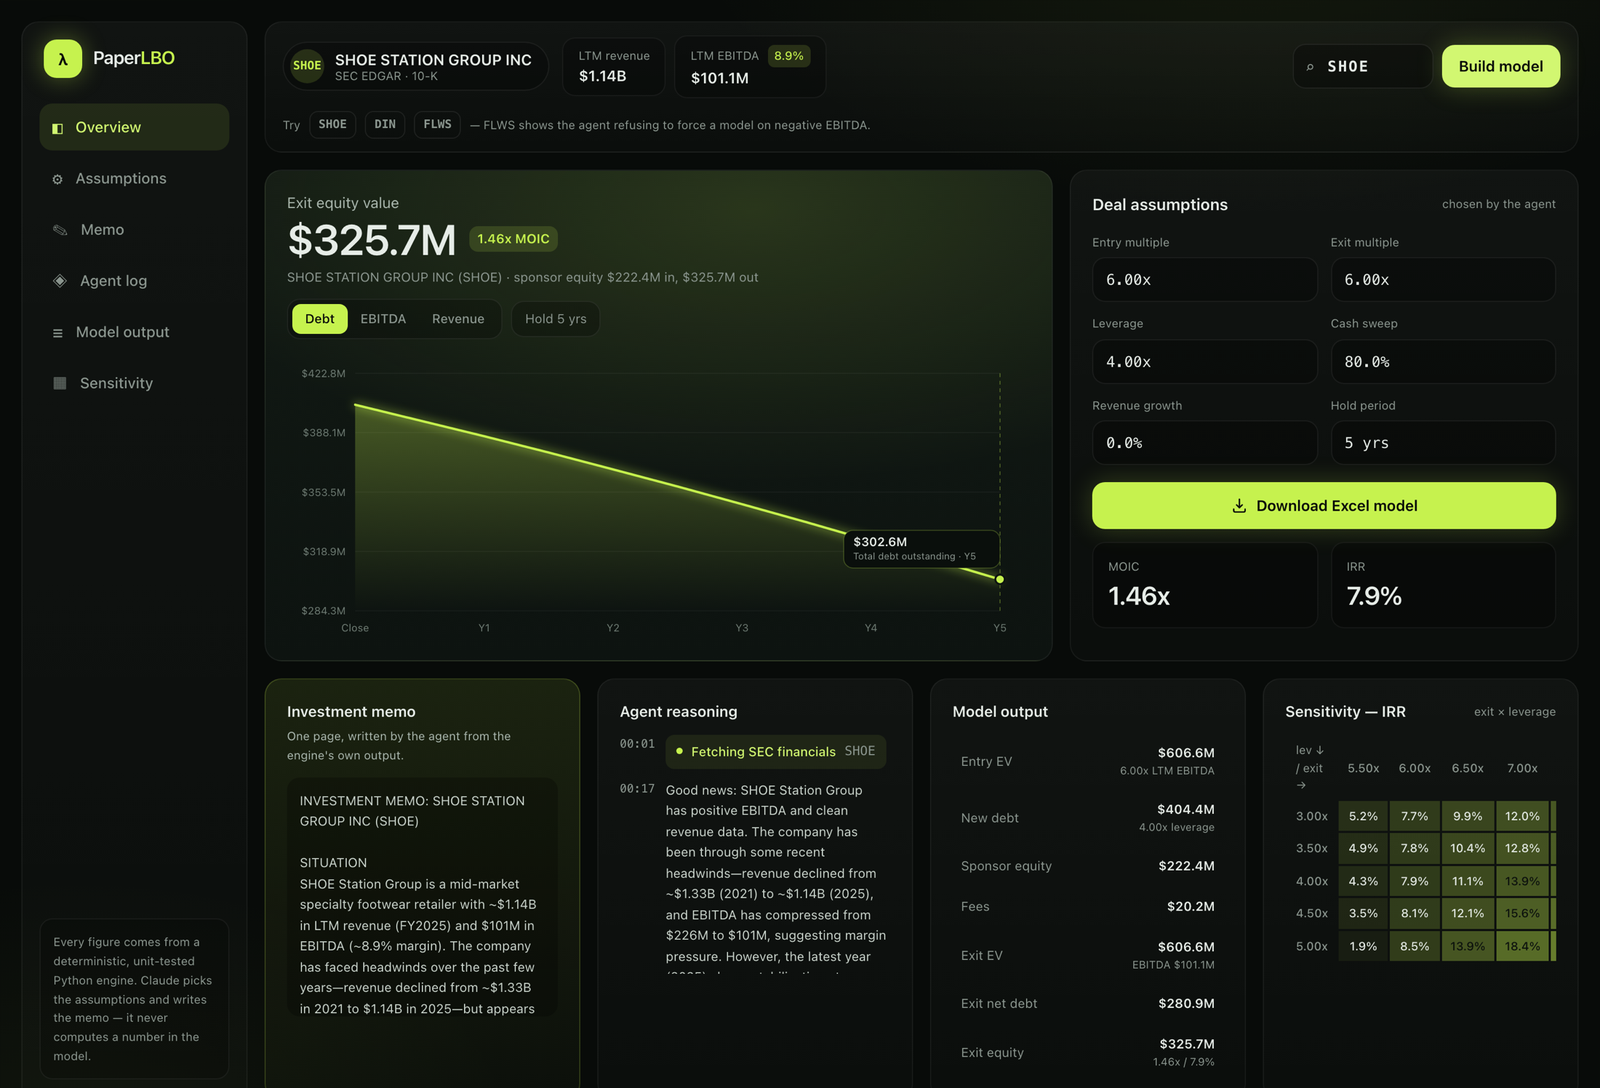
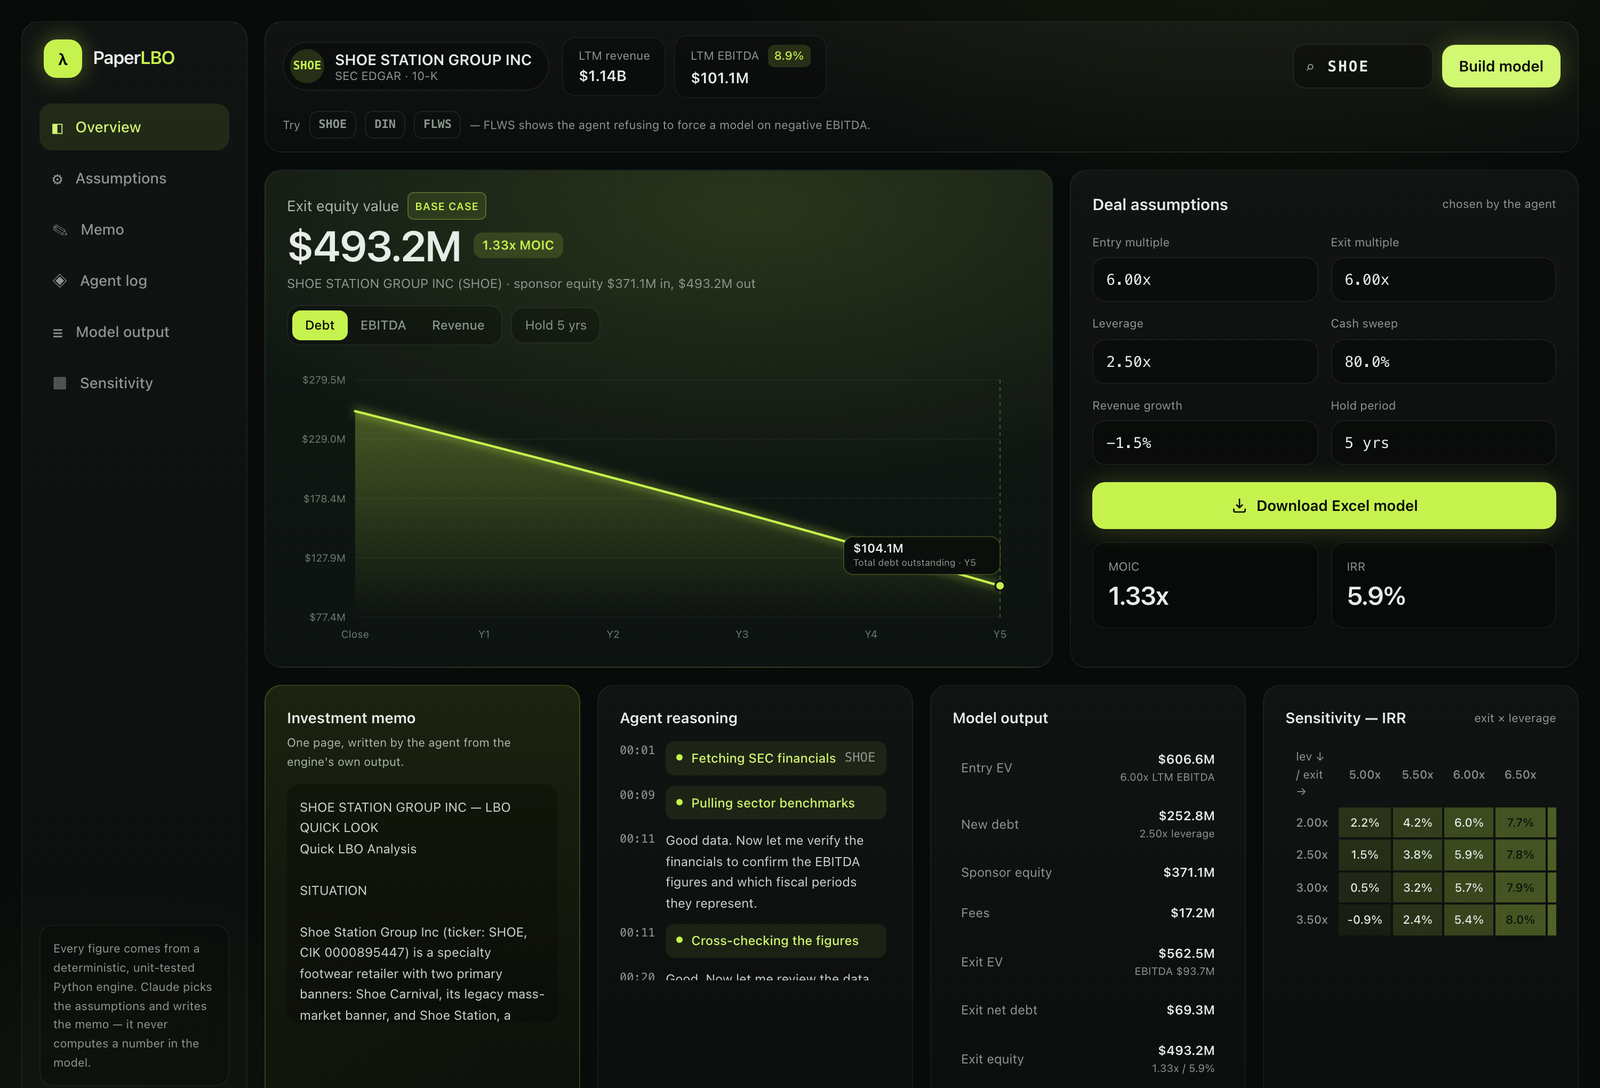
README: retake the screenshot on the base-case UI
The previous capture predated the base-case fix, so it showed no case
labelling. This one shows the BASE CASE chip against a flat 6.00x/6.00x
run, and the agent log happens to catch the grounding pipeline —
benchmarks and figure cross-checking — mid-stream.

Same capture discipline as before: live run against real SEC data, log
positioned past the model's opening line, checked for a leaked home path
and for a misidentified company before saving.

diff --git a/README.md b/README.md
@@ -14,7 +14,9 @@ one-page investment memo.
 
 *A real run: ticker in, the agent's reasoning streaming live, and a finished model —
 deleveraging curve, the assumptions it chose and defended, returns, an IRR sensitivity
-grid, the memo, and the Excel workbook.*
+grid, the memo, and the Excel workbook. The headline is always the flat-multiple **base
+case** (exit multiple = entry); a run assuming multiple expansion is labelled as an
+upside case and never shown as the top-line return.*
 
 Built as a portfolio project for private equity recruiting. It automates
 what PE firms call a "paper LBO" — a standard interview screen — end to end:
